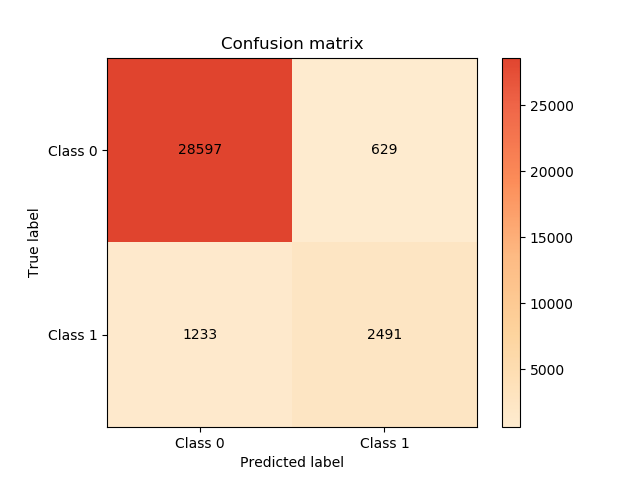
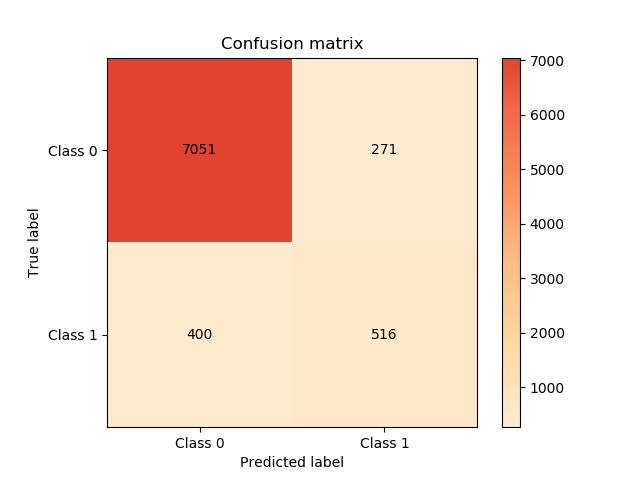
Correct test data filepath

diff --git a/gbdt/gbdt_banking.py b/gbdt/gbdt_banking.py
@@ -93,6 +93,6 @@ Data = namedtuple("Data", ['X', 'y'])
 
 estimator = GradientBoostingClassifier(n_estimators=160, learning_rate=0.1, max_depth=5)
 estimator.fit(training_data.X, training_data.y)
-test_data = pd.read_csv('../data/banking/bank-additional-full-transformed-train.csv', sep=';')
+test_data = pd.read_csv('../data/banking/bank-additional-full-transformed-test.csv', sep=';')
 test_data = Data(X=test_data.iloc[:, :-1], y=test_data.iloc[:, -1])
 evaluate_generalization(test_data, estimator)
